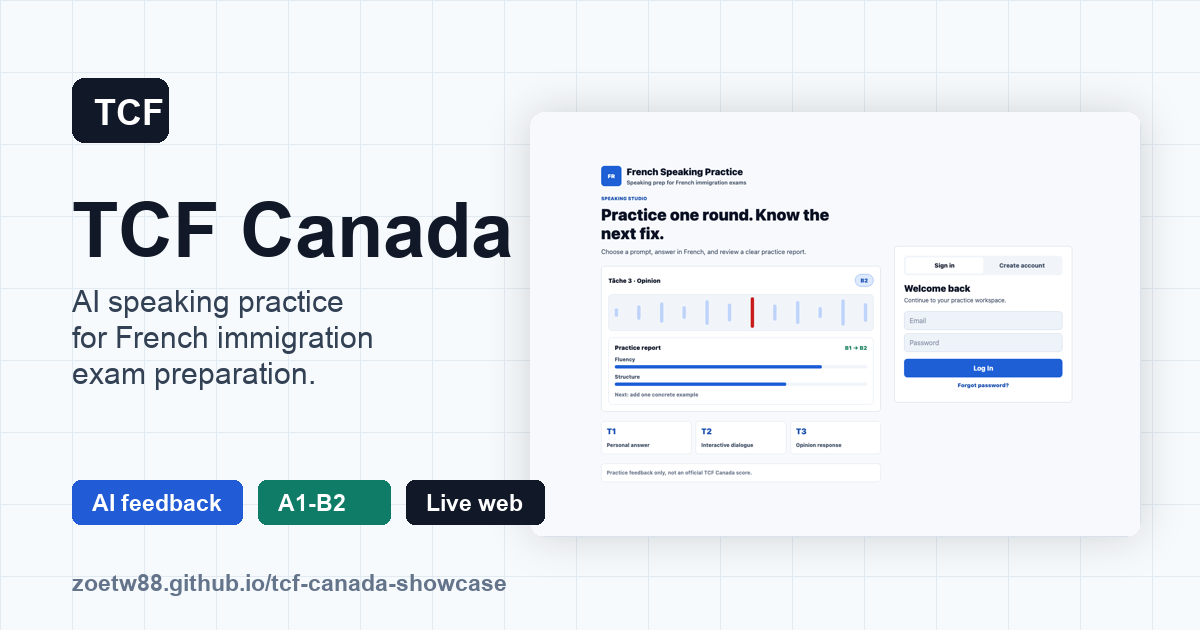
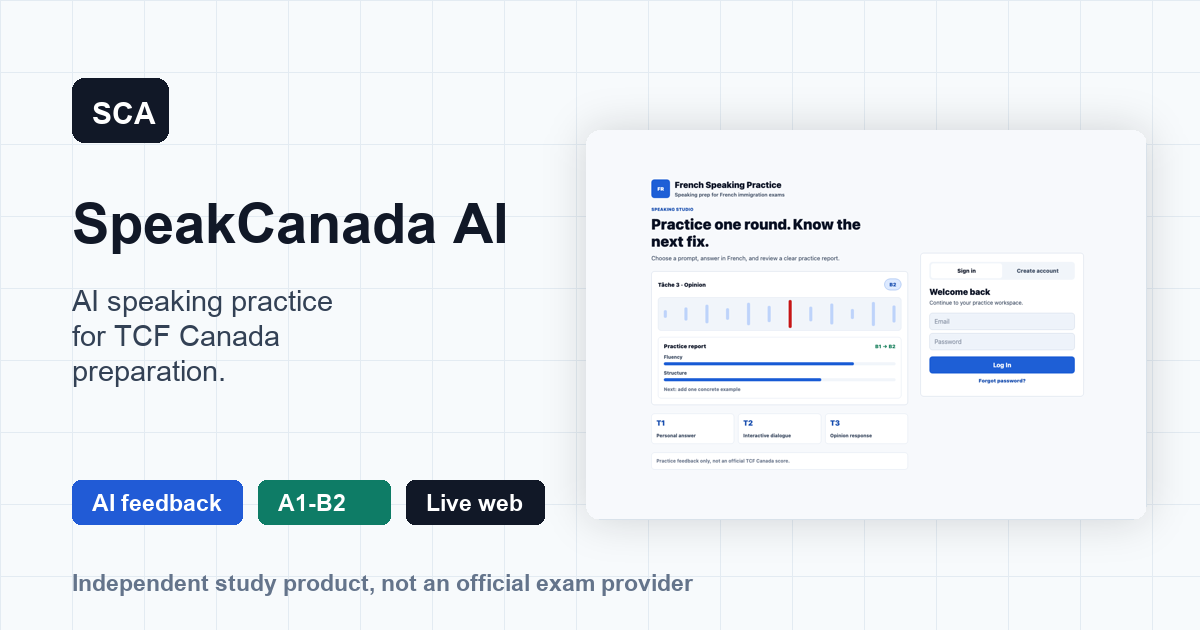
docs: rename showcase brand safely

diff --git a/styles.css b/styles.css
@@ -47,7 +47,7 @@ img {
   backdrop-filter: blur(18px);
   display: grid;
   gap: 18px;
-  grid-template-columns: 1fr auto 1fr;
+  grid-template-columns: auto 1fr;
   left: 0;
   padding: 16px clamp(20px, 5vw, 72px);
   position: sticky;
@@ -79,29 +79,19 @@ img {
   font-size: 12px;
   height: 32px;
   justify-content: center;
-  width: 44px;
+  width: 48px;
 }
 
 .nav-links {
   color: var(--muted);
   gap: 24px;
-  justify-content: center;
+  justify-content: end;
   font-size: 14px;
   font-weight: 700;
 }
 
 .nav-links a:hover {
   color: var(--ink);
-}
-
-.header-cta {
-  background: #0f172a;
-  border-radius: 6px;
-  color: #fff;
-  font-size: 14px;
-  font-weight: 800;
-  justify-self: end;
-  padding: 11px 16px;
 }
 
 .hero {
@@ -190,16 +180,7 @@ p {
 h1 {
   font-size: clamp(48px, 7vw, 82px);
   line-height: 0.96;
-  margin-bottom: 16px;
-}
-
-.hero-positioning {
-  color: #1f2937;
-  font-size: clamp(25px, 3.1vw, 40px);
-  font-weight: 850;
-  line-height: 1.12;
-  margin-bottom: 22px;
-  max-width: 680px;
+  margin-bottom: 24px;
 }
 
 h2 {
@@ -485,7 +466,7 @@ h3 {
   border-top: 1px solid var(--line);
   display: flex;
   gap: 16px;
-  justify-content: space-between;
+  justify-content: center;
   padding: 28px clamp(20px, 5vw, 72px);
 }
 
@@ -499,10 +480,6 @@ h3 {
 }
 
 @media (max-width: 980px) {
-  .site-header {
-    grid-template-columns: 1fr auto;
-  }
-
   .nav-links {
     display: none;
   }
@@ -540,11 +517,6 @@ h3 {
     display: none;
   }
 
-  .header-cta {
-    font-size: 13px;
-    padding: 10px 12px;
-  }
-
   .hero,
   .section,
   .split-section {
@@ -555,10 +527,6 @@ h3 {
   h1 {
     font-size: 44px;
     line-height: 1;
-  }
-
-  .hero-positioning {
-    font-size: 26px;
   }
 
   .hero-actions,

diff --git a/index.html b/index.html
@@ -5,9 +5,9 @@
     <meta name="viewport" content="width=device-width, initial-scale=1" />
     <meta
       name="description"
-      content="TCF Canada is an AI speaking practice product for French immigration exam preparation."
+      content="SpeakCanada AI is an independent AI speaking practice product for TCF Canada preparation."
     />
-    <meta property="og:title" content="TCF Canada | AI Speaking Practice" />
+    <meta property="og:title" content="SpeakCanada AI | TCF Canada Speaking Practice" />
     <meta
       property="og:description"
       content="Practice French speaking with AI-guided feedback, level-aware review, and a focused study loop."
@@ -17,15 +17,15 @@
     <meta property="og:type" content="website" />
     <meta name="twitter:card" content="summary_large_image" />
     <meta name="theme-color" content="#111827" />
-    <title>TCF Canada | AI Speaking Practice</title>
+    <title>SpeakCanada AI | TCF Canada Speaking Practice</title>
     <link rel="icon" href="assets/favicon.svg" type="image/svg+xml" />
     <link rel="stylesheet" href="styles.css" />
   </head>
   <body>
     <header class="site-header">
-      <a class="brand" href="#top" aria-label="TCF Canada home">
-        <span class="brand-mark">TCF</span>
-        <span>TCF Canada</span>
+      <a class="brand" href="#top" aria-label="SpeakCanada AI home">
+        <span class="brand-mark">SCA</span>
+        <span>SpeakCanada AI</span>
       </a>
       <nav class="nav-links" aria-label="Primary navigation">
         <a href="#product">Product</a>
@@ -33,7 +33,6 @@
         <a href="#readiness">Readiness</a>
         <a href="#privacy">Privacy</a>
       </nav>
-      <a class="header-cta" href="https://tcf-canada-gamma.vercel.app">Launch app</a>
     </header>
 
     <main id="top">
@@ -48,13 +47,11 @@
             Canada-focused French speaking preparation
           </div>
           <p class="eyebrow">AI speaking coach for French exam preparation</p>
-          <h1>TCF Canada</h1>
-          <p class="hero-positioning">
-            Practice French speaking with AI feedback you can act on.
-          </p>
+          <h1>Practice French speaking with feedback you can act on.</h1>
           <p class="hero-text">
-            TCF Canada helps independent learners choose a target level, answer realistic
-            speaking prompts, review AI-guided feedback, and return to focused practice.
+            SpeakCanada AI helps independent learners preparing for TCF Canada choose a target
+            level, answer realistic speaking prompts, review AI-guided feedback, and return to
+            focused practice.
           </p>
           <div class="hero-actions">
             <a class="primary-action" href="https://tcf-canada-gamma.vercel.app">Launch web app</a>
@@ -99,7 +96,7 @@
           <p class="eyebrow">Product workflow</p>
           <h2>A focused loop for independent speaking practice.</h2>
         </div>
-        <div class="workflow" aria-label="TCF Canada practice workflow">
+        <div class="workflow" aria-label="SpeakCanada AI practice workflow">
           <article>
             <span>01</span>
             <h3>Choose level</h3>
@@ -179,7 +176,10 @@
           </article>
           <article>
             <h3>Independent product</h3>
-            <p>TCF Canada is not affiliated with an official exam provider or government agency.</p>
+            <p>
+              SpeakCanada AI is not affiliated with France Education International, any official
+              exam provider, or any government agency.
+            </p>
           </article>
         </div>
       </section>
@@ -190,7 +190,6 @@
         Built by <a href="https://github.com/zoetw88">Zoe</a> as an independent AI speaking
         practice product.
       </p>
-      <a href="https://tcf-canada-gamma.vercel.app">Launch TCF Canada</a>
     </footer>
   </body>
 </html>

diff --git a/README.md b/README.md
@@ -1,8 +1,8 @@
-# TCF Canada
+# SpeakCanada AI
 
-**AI speaking practice for French immigration exam preparation.**
+**Independent AI speaking practice for TCF Canada preparation.**
 
-TCF Canada helps independent learners practice French speaking with a fast improvement loop: choose a target level, answer realistic prompts, receive AI-guided feedback, and return to focused review.
+SpeakCanada AI helps independent learners preparing for TCF Canada practice French speaking with a fast improvement loop: choose a target level, answer realistic prompts, receive AI-guided feedback, and return to focused review.
 
 [Launch Web App](https://tcf-canada-gamma.vercel.app)
 
@@ -17,7 +17,7 @@ TCF Canada helps independent learners practice French speaking with a fast impro
 | Area | Detail |
 | --- | --- |
 | Product type | AI speaking coach |
-| Audience | Learners preparing for French-speaking immigration exams |
+| Audience | Learners preparing for TCF Canada speaking practice |
 | Core workflow | Practice, feedback, review, repeat |
 | Level targets | A1, A2, B1, B2 |
 | Live product | Web available now |
@@ -27,7 +27,7 @@ TCF Canada helps independent learners practice French speaking with a fast impro
 
 Speaking preparation is difficult to do alone. Learners can read vocabulary lists or complete grammar drills, but after answering a speaking prompt they often still ask the same question: what should I improve next?
 
-TCF Canada is built around that moment. It turns each speaking attempt into a clear review cycle so learners can practice more often, understand their weak points, and return to the prompts that matter.
+SpeakCanada AI is built around that moment. It turns each speaking attempt into a clear review cycle so learners can practice more often, understand their weak points, and return to the prompts that matter.
 
 ## AI Product Experience
 
@@ -59,15 +59,15 @@ The product is designed for frequent use: pick a prompt, answer, review feedback
 
 ## Product Preview
 
-![TCF Canada desktop product preview](assets/desktop-preview.png)
+![SpeakCanada AI desktop product preview](assets/desktop-preview.png)
 
 <p align="center">
-  <img src="assets/mobile-preview.png" alt="TCF Canada mobile preview" width="320" />
+  <img src="assets/mobile-preview.png" alt="SpeakCanada AI mobile preview" width="320" />
 </p>
 
 ## Privacy & Safety
 
-TCF Canada is designed with privacy, safety, and exam-prep clarity in mind:
+SpeakCanada AI is designed with privacy, safety, and exam-prep clarity in mind:
 
 - AI feedback is learning guidance, not an official score or guarantee.
 - Public showcase materials do not include private user data.
@@ -98,10 +98,10 @@ TCF Canada is designed with privacy, safety, and exam-prep clarity in mind:
 
 ## Built By
 
-TCF Canada is an independent product built by **Zoe**.
+SpeakCanada AI is an independent product built by **Zoe**.
 
 This public repository is a product showcase. It demonstrates the product, positioning, visual experience, and launch readiness without publishing the private application source code.
 
 ## Independence Notice
 
-TCF Canada is an independent study product and is not affiliated with, endorsed by, or operated by any official exam provider or government agency.
+SpeakCanada AI is an independent study product and is not affiliated with, endorsed by, or operated by France Education International, any official exam provider, or any government agency. TCF Canada is referenced only to describe the exam preparation context.